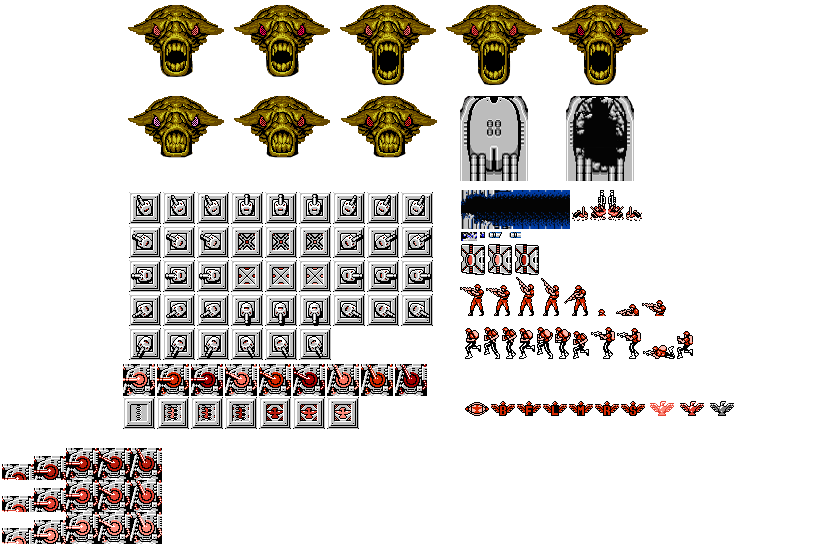
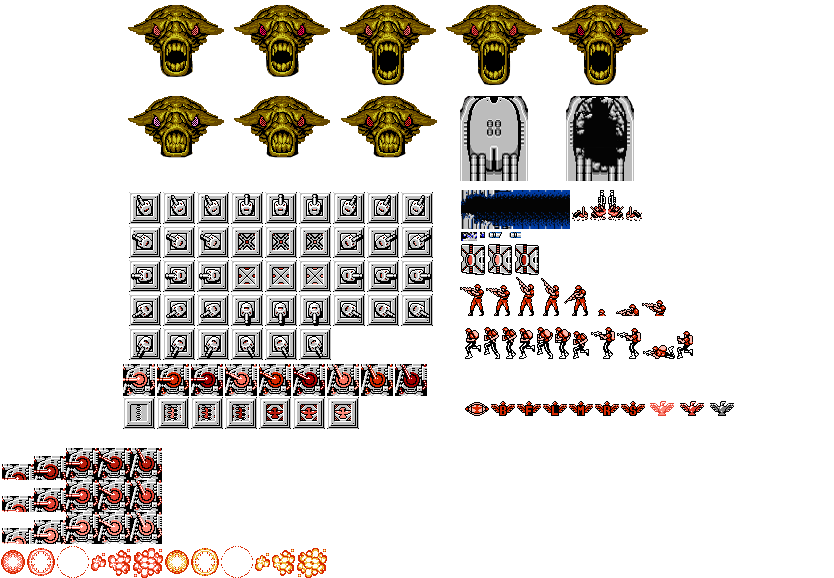
update

Changed region(s): [[0.0, 0.0, 0.8417, 1.0], [0.5612, 0.685, 0.9041, 0.7784]]

diff --git a/OEnemy.cpp b/OEnemy.cpp
@@ -7,7 +7,8 @@ Animation* OEnemy::GetAnimationEnemy()
 	Animation::DataAnimMap data;
 	// Soldier
 	data[OEnemy::Soldier + Object::Standing] = { 0 , 5};
-	data[OEnemy::Soldier + Object::Dying] = { 7 , 8 };
+	data[OEnemy::Soldier + Object::Dying] = { 86 , 88 };
+
 
 	data[OEnemy::Rifleman + Object::Standing] = { 11, 12 };
 	data[OEnemy::Rifleman + Object::Standing + 2] = { 13, 14 };//Khong co ban chi co gio sung thoi
@@ -17,17 +18,18 @@ Animation* OEnemy::GetAnimationEnemy()
 
 	data[OEnemy::Rifleman + Object::Diving] = { 16, 16};
 	data[OEnemy::Rifleman + Object::Jumping] = { 17, 18 };
+	data[OEnemy::Rifleman + Object::Dying] = { 86, 88 };
 
 	data[OEnemy::Tank + Object::Standing] = { 21, 23 };
-	data[OEnemy::Tank + Object::Standing + 2] = { 34, 36 };
+	data[OEnemy::Tank + Object::Standing + 2] = { 36, 38 };
 	data[OEnemy::Tank + Object::Standing + 4] = { 24, 26 };
 	data[OEnemy::Tank + Object::Standing + 6] = { 30, 32 };
-	data[OEnemy::Tank + Object::Standing + 8] = { 37, 39 };
+	data[OEnemy::Tank + Object::Standing + 8] = { 39, 41 };
 
-	data[OEnemy::Cannon + Object::Running] = { 77, 84 };
-	data[OEnemy::Cannon + Object::Standing] = { 83, 83 };
-	data[OEnemy::Cannon + Object::Standing + 2] = { 83, 83 };
-	data[OEnemy::Cannon + Object::Standing + 4] = { 51, 51 };
+	data[OEnemy::Cannon + Object::Running] = { 79, 86 };
+	data[OEnemy::Cannon + Object::Standing] = { 85, 85 };
+	data[OEnemy::Cannon + Object::Standing + 2] = { 85, 85 };
+	data[OEnemy::Cannon + Object::Standing + 4] = { 53, 53 };
 
 	Animation* _animEnemy = new Animation(EnemyXML, EnemyPNG);
 	_animEnemy->SetDataAnimation(data);
